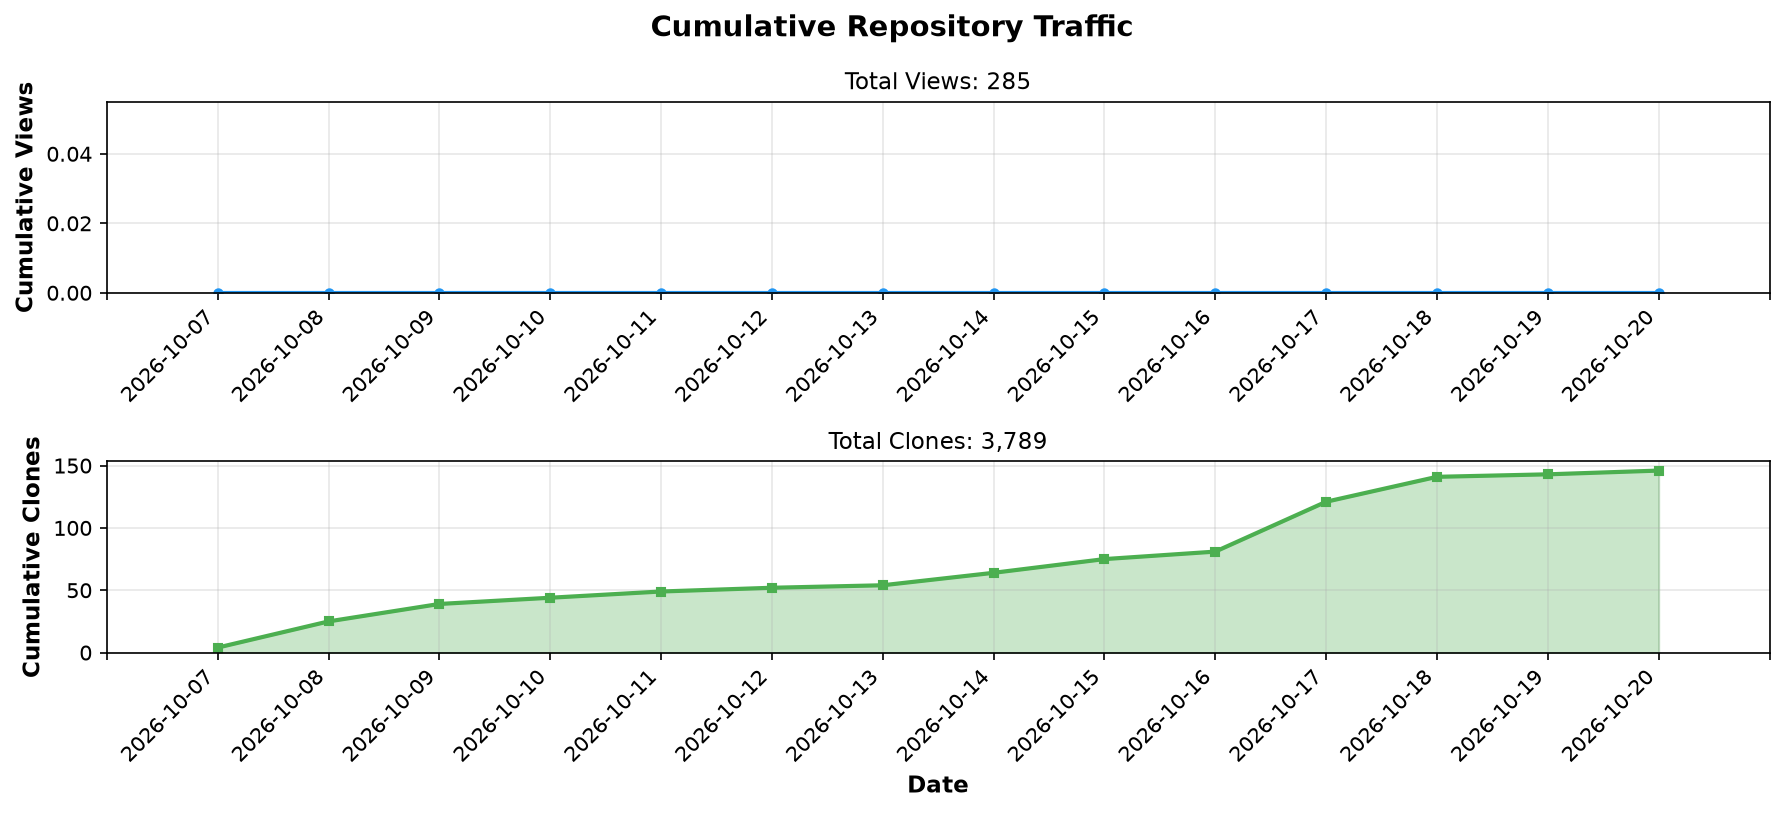
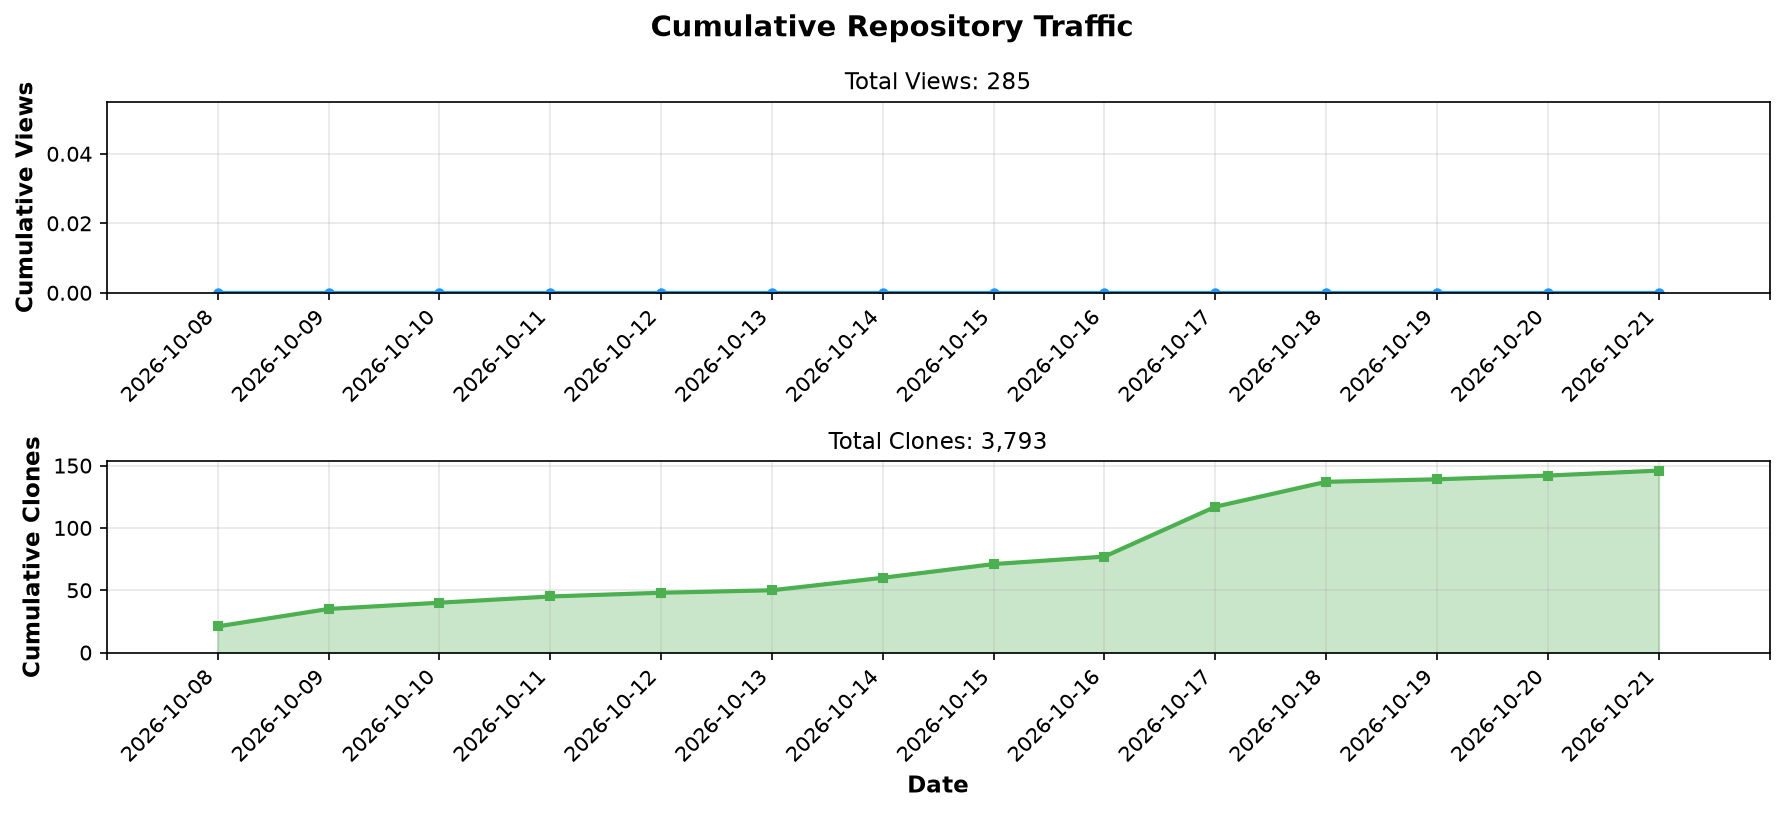
chore: update repository stats [skip ci]

diff --git a/README.md b/README.md
@@ -95,9 +95,9 @@ I'm BonoJovi (Yoshihiro NAKAHARA), the project initiator.
 | Metric | Count |
 |--------|-------|
 | 👁 **Total Views** | **285** |
-| 📦 **Total Clones** | **3,789** |
+| 📦 **Total Clones** | **3,793** |
 
-*Last Updated: 2026-10-22 01:18 UTC*
+*Last Updated: 2026-10-23 01:21 UTC*
 
 </div>
 <!-- STATS_END -->
